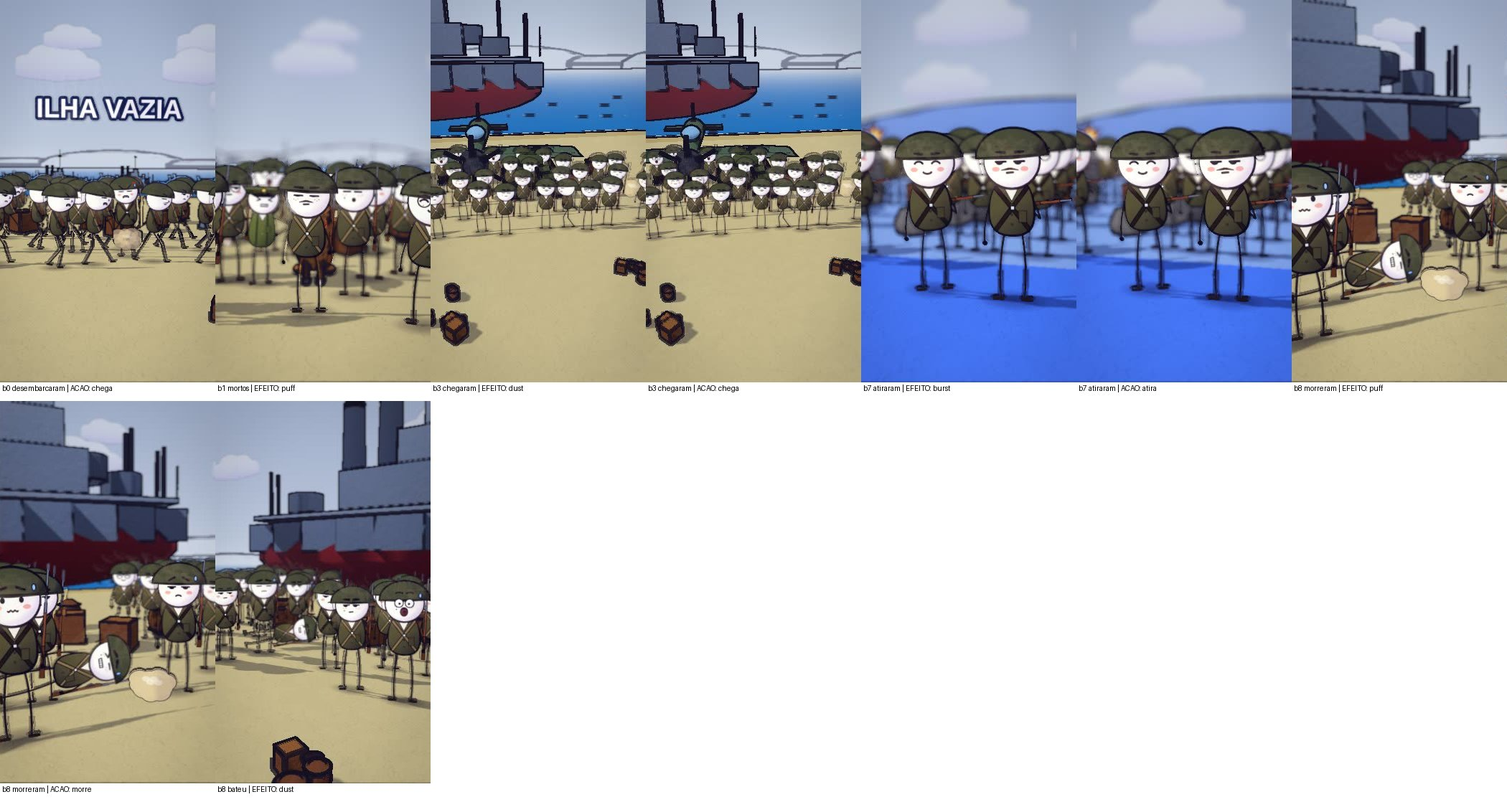
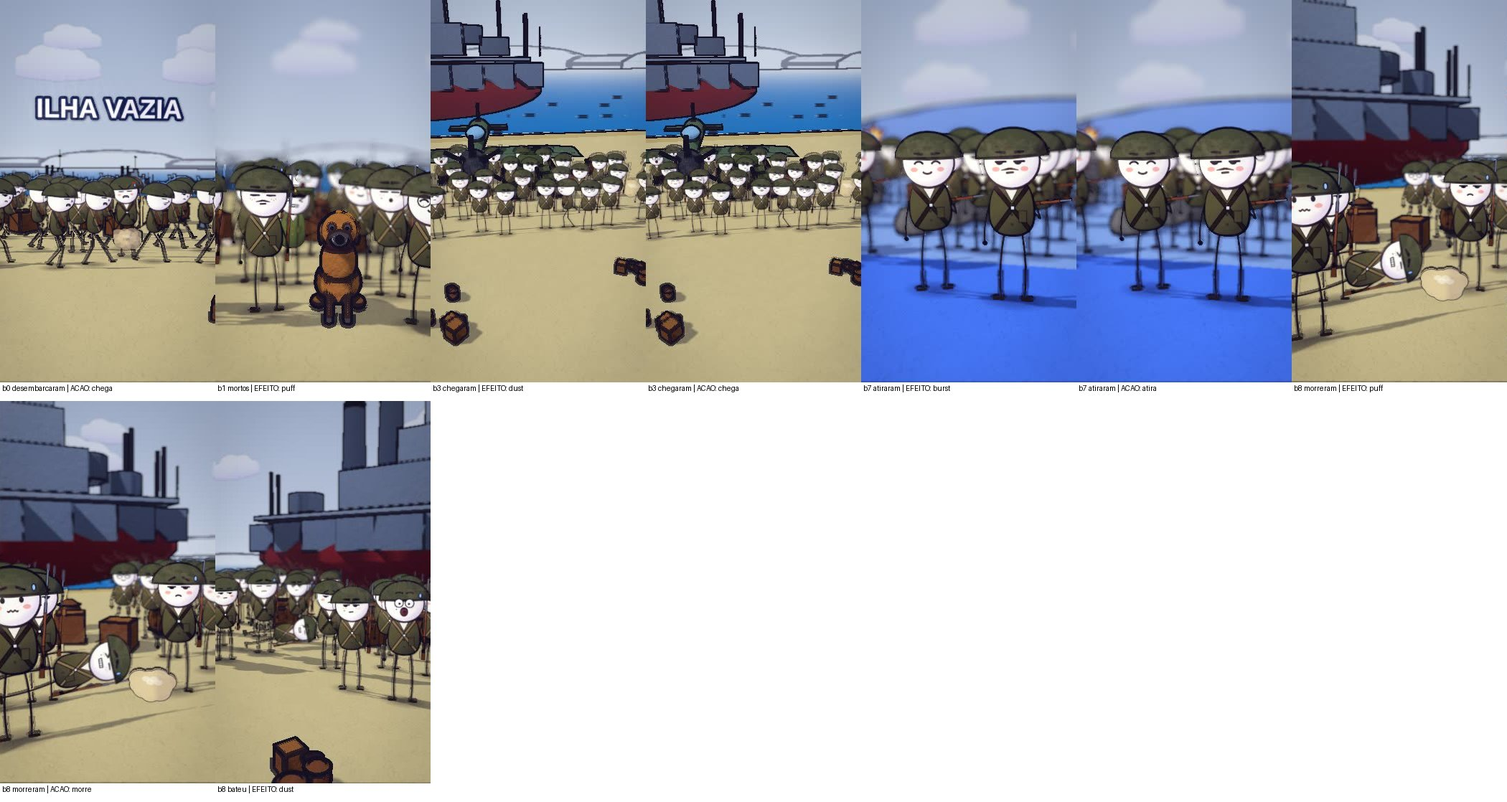
progresso da fila
Claude-Session: https://claude.ai/code/session_01HE8Dy3UcXXZZMLa7uzjNJD

Changed region(s): [[0.1238, 0.1825, 0.3095, 0.4258]]

diff --git a/ferramenta-shorts/web/story.js b/ferramenta-shorts/web/story.js
@@ -34,7 +34,7 @@ const SPEC = {
   kicks: [{ f: WS(63), a: 0.032 }], flashes: [],
   shots: [
     { ...S('b0', A[0], A[1] - 1, X_harbor, "overcast", { h: 2.4, d0: 20, d1: 16, el: 5, fov: 46, cx: 0.0, cz: -1.5, wx: {"fog": 0.7, "wind": 0.3}, hero: { hero: 'none', wide: true }, vary: false, nocut: true, actors: [_MA(pp(X_harbor, "USA", 0, -1.0, -0.4, "stern"), { gests: [[WS(5) - 8, WS(5) + 46, 'point']] }), pp(X_harbor, "CAN", 0, 1.0, 0.2, "stern"), { outfit: "USA", v: 0, at: [X_harbor + -17.05, 0.84], move: [[X_harbor + -5.05, 0.84], A[0], A[1] - 1, 'lin'], pose: 'march', speed: 0.034, expr: "stern", seed: 0, look: -0.25 }, { outfit: "CAN", v: 1, at: [X_harbor + -14.79, 1.32], move: [[X_harbor + -2.79, 1.32], A[0], A[1] - 1, 'lin'], pose: 'march', speed: 0.034, expr: "stern", seed: 1, look: 0.25 }, { outfit: "USA", v: 2, at: [X_harbor + -12.53, 0.96], move: [[X_harbor + -0.53, 0.96], A[0], A[1] - 1, 'lin'], pose: 'march', speed: 0.034, expr: "stern", seed: 2, look: 0.0 }, { outfit: "CAN", v: 3, at: [X_harbor + -11.26, 1.44], move: [[X_harbor + 0.74, 1.44], A[0], A[1] - 1, 'lin'], pose: 'march', speed: 0.034, expr: "stern", seed: 3, look: 0.15 }, { outfit: "USA", v: 0, at: [X_harbor + -9.0, 1.08], move: [[X_harbor + 3.0, 1.08], A[0], A[1] - 1, 'lin'], pose: 'march', speed: 0.034, expr: "stern", seed: 0, look: -0.25 }, { outfit: "CAN", v: 1, at: [X_harbor + -6.74, 1.56], move: [[X_harbor + 5.26, 1.56], A[0], A[1] - 1, 'lin'], pose: 'march', speed: 0.034, expr: "stern", seed: 1, look: 0.25 }, { outfit: "USA", v: 2, at: [X_harbor + -5.47, 1.2], move: [[X_harbor + 6.53, 1.2], A[0], A[1] - 1, 'lin'], pose: 'march', speed: 0.034, expr: "stern", seed: 2, look: 0.0 }, { outfit: "CAN", v: 3, at: [X_harbor + -3.21, 0.84], move: [[X_harbor + 8.79, 0.84], A[0], A[1] - 1, 'lin'], pose: 'march', speed: 0.034, expr: "stern", seed: 3, look: 0.15 }, { outfit: "USA", v: 0, at: [X_harbor + -0.95, 1.32], move: [[X_harbor + 11.05, 1.32], A[0], A[1] - 1, 'lin'], pose: 'march', speed: 0.034, expr: "stern", seed: 0, look: -0.25 }, { outfit: "CAN", v: 1, at: [X_harbor + -15.88, -1.14], move: [[X_harbor + -3.88, -1.14], A[0], A[1] - 1, 'lin'], pose: 'march', speed: 0.034, expr: "stern", seed: 1, look: 0.25 }, { outfit: "USA", v: 2, at: [X_harbor + -13.62, -0.66], move: [[X_harbor + -1.62, -0.66], A[0], A[1] - 1, 'lin'], pose: 'march', speed: 0.034, expr: "stern", seed: 2, look: 0.0 }, { outfit: "CAN", v: 3, at: [X_harbor + -12.35, -1.02], move: [[X_harbor + -0.35, -1.02], A[0], A[1] - 1, 'lin'], pose: 'march', speed: 0.034, expr: "stern", seed: 3, look: 0.15 }, { outfit: "USA", v: 0, at: [X_harbor + -10.09, -0.54], move: [[X_harbor + 1.91, -0.54], A[0], A[1] - 1, 'lin'], pose: 'march', speed: 0.034, expr: "stern", seed: 0, look: -0.25 }, { outfit: "CAN", v: 1, at: [X_harbor + -7.83, -0.9], move: [[X_harbor + 4.17, -0.9], A[0], A[1] - 1, 'lin'], pose: 'march', speed: 0.034, expr: "stern", seed: 1, look: 0.25 }, { outfit: "USA", v: 2, at: [X_harbor + -6.56, -1.26], move: [[X_harbor + 5.44, -1.26], A[0], A[1] - 1, 'lin'], pose: 'march', speed: 0.034, expr: "stern", seed: 2, look: 0.0 }, { outfit: "CAN", v: 3, at: [X_harbor + -4.3, -0.78], move: [[X_harbor + 7.7, -0.78], A[0], A[1] - 1, 'lin'], pose: 'march', speed: 0.034, expr: "stern", seed: 3, look: 0.15 }, { outfit: "USA", v: 0, at: [X_harbor + -2.04, -1.14], move: [[X_harbor + 9.96, -1.14], A[0], A[1] - 1, 'lin'], pose: 'march', speed: 0.034, expr: "stern", seed: 0, look: -0.25 }, { outfit: "CAN", v: 1, at: [X_harbor + -0.77, -0.66], move: [[X_harbor + 11.23, -0.66], A[0], A[1] - 1, 'lin'], pose: 'march', speed: 0.034, expr: "stern", seed: 1, look: 0.25 }, { outfit: "USA", v: 2, at: [X_harbor + -16.51, -3.12], move: [[X_harbor + -4.51, -3.12], A[0], A[1] - 1, 'lin'], pose: 'march', speed: 0.034, expr: "stern", seed: 2, look: 0.0 }, { outfit: "CAN", v: 3, at: [X_harbor + -14.25, -2.64], move: [[X_harbor + -2.25, -2.64], A[0], A[1] - 1, 'lin'], pose: 'march', speed: 0.034, expr: "stern", seed: 3, look: 0.15 }, { outfit: "USA", v: 0, at: [X_harbor + -12.98, -3.0], move: [[X_harbor + -0.98, -3.0], A[0], A[1] - 1, 'lin'], pose: 'march', speed: 0.034, expr: "stern", seed: 0, look: -0.25 }, { outfit: "CAN", v: 1, at: [X_harbor + -10.72, -3.36], move: [[X_harbor + 1.28, -3.36], A[0], A[1] - 1, 'lin'], pose: 'march', speed: 0.034, expr: "stern", seed: 1, look: 0.25 }, { outfit: "USA", v: 2, at: [X_harbor + -9.45, -2.88], move: [[X_harbor + 2.55, -2.88], A[0], A[1] - 1, 'lin'], pose: 'march', speed: 0.034, expr: "stern", seed: 2, look: 0.0 }, { outfit: "CAN", v: 3, at: [X_harbor + -7.19, -3.24], move: [[X_harbor + 4.81, -3.24], A[0], A[1] - 1, 'lin'], pose: 'march', speed: 0.034, expr: "stern", seed: 3, look: 0.15 }, { outfit: "USA", v: 0, at: [X_harbor + -4.93, -2.76], move: [[X_harbor + 7.07, -2.76], A[0], A[1] - 1, 'lin'], pose: 'march', speed: 0.034, expr: "stern", seed: 0, look: -0.25 }, { outfit: "CAN", v: 1, at: [X_harbor + -3.66, -3.12], move: [[X_harbor + 8.34, -3.12], A[0], A[1] - 1, 'lin'], pose: 'march', speed: 0.034, expr: "stern", seed: 1, look: 0.25 }, { outfit: "USA", v: 2, at: [X_harbor + -1.4, -2.64], move: [[X_harbor + 10.6, -2.64], A[0], A[1] - 1, 'lin'], pose: 'march', speed: 0.034, expr: "stern", seed: 2, look: 0.0 }, { outfit: "CAN", v: 3, at: [X_harbor + -15.34, -5.1], move: [[X_harbor + -3.34, -5.1], A[0], A[1] - 1, 'lin'], pose: 'march', speed: 0.034, expr: "stern", seed: 3, look: 0.15 }, { outfit: "USA", v: 0, at: [X_harbor + -14.07, -5.46], move: [[X_harbor + -2.07, -5.46], A[0], A[1] - 1, 'lin'], pose: 'march', speed: 0.034, expr: "stern", seed: 0, look: -0.25 }, { outfit: "CAN", v: 1, at: [X_harbor + -11.81, -4.98], move: [[X_harbor + 0.19, -4.98], A[0], A[1] - 1, 'lin'], pose: 'march', speed: 0.034, expr: "stern", seed: 1, look: 0.25 }, { outfit: "USA", v: 2, at: [X_harbor + -9.55, -5.34], move: [[X_harbor + 2.45, -5.34], A[0], A[1] - 1, 'lin'], pose: 'march', speed: 0.034, expr: "stern", seed: 2, look: 0.0 }, { outfit: "CAN", v: 3, at: [X_harbor + -8.28, -4.86], move: [[X_harbor + 3.72, -4.86], A[0], A[1] - 1, 'lin'], pose: 'march', speed: 0.034, expr: "stern", seed: 3, look: 0.15 }], props: [{ asset: "ship", at: [X_harbor + -5, -27.0], s: 1.3 }, { asset: "ship", at: [X_harbor + 4, -27.0], s: 1.3 }, { asset: 'ship', at: [X_harbor + -34, -9], move: [[X_harbor + -7, -9], A[0], WS(5) + 30, 'lin'], s: 1.3, drop: false }, { asset: 'ship', at: [X_harbor + -46, -12], move: [[X_harbor + -16, -12], A[0], WS(5) + 30, 'lin'], s: 1.3, drop: false }], fx: [txt(X_harbor, WS(2, -2), A[1] - 1, "ILHA VAZIA", '#ffffff', '#1c2a4a', 4.6, { s: 1.5, up: 0.42 }), { k: "dust", a: A[0] + 25, b: A[0] + 51, at: [X_harbor + 0.9, DK + 0.12, 1.0], s: 0.75 }] }), nocut: true },
-    { ...S('b1', A[1], A[2] - 1, X_harbor, "overcast", { h: 2.4, d0: 12.1, d1: 11.5, el: 6, cx: 0.0, cz: -0.6, wx: {"fog": 0.7, "wind": 0.3}, hero: { hero: 'none', wide: true }, vary: false, nocut: true, trans: 'cut', glide: true, glideN: 26, actors: [pp(X_harbor, "OFF", 0, -1.0, -0.4, "pained"), pp(X_harbor, "USA", 0, 1.0, 0.2, "surprised"), pp(X_harbor, "USA", 0, -8.05, 0.84, "neutral", { look: -0.25, seed: 0 }), pp(X_harbor, "USA", 1, -5.79, 1.32, "neutral", { look: 0.25, seed: 1 }), pp(X_harbor, "USA", 2, -3.53, 0.96, "neutral", { look: 0.0, seed: 2 }), pp(X_harbor, "USA", 3, -2.26, 1.44, "neutral", { look: 0.15, seed: 3 }), pp(X_harbor, "USA", 4, 0.0, 1.08, "neutral", { look: -0.25, seed: 0 }), pp(X_harbor, "USA", 5, 2.26, 1.56, "neutral", { look: 0.25, seed: 1 }), pp(X_harbor, "USA", 6, 3.53, 1.2, "neutral", { look: 0.0, seed: 2 }), pp(X_harbor, "USA", 0, 5.79, 0.84, "neutral", { look: 0.15, seed: 3 }), pp(X_harbor, "USA", 1, 8.05, 1.32, "neutral", { look: -0.25, seed: 0 }), pp(X_harbor, "USA", 2, -6.88, -1.14, "neutral", { look: 0.25, seed: 1 }), pp(X_harbor, "USA", 3, -4.62, -0.66, "neutral", { look: 0.0, seed: 2 }), pp(X_harbor, "USA", 4, -3.35, -1.02, "neutral", { look: 0.15, seed: 3 }), pp(X_harbor, "USA", 5, -1.09, -0.54, "neutral", { look: -0.25, seed: 0 }), pp(X_harbor, "USA", 6, 1.17, -0.9, "neutral", { look: 0.25, seed: 1 }), pp(X_harbor, "USA", 0, 2.44, -1.26, "neutral", { look: 0.0, seed: 2 }), pp(X_harbor, "USA", 1, 4.7, -0.78, "neutral", { look: 0.15, seed: 3 }), pp(X_harbor, "USA", 2, 6.96, -1.14, "neutral", { look: -0.25, seed: 0 }), pp(X_harbor, "USA", 3, 8.23, -0.66, "neutral", { look: 0.25, seed: 1 }), pp(X_harbor, "USA", 4, -7.51, -3.12, "neutral", { look: 0.0, seed: 2 }), pp(X_harbor, "USA", 5, -5.25, -2.64, "neutral", { look: 0.15, seed: 3 }), pp(X_harbor, "USA", 6, -3.98, -3.0, "neutral", { look: -0.25, seed: 0 }), pp(X_harbor, "USA", 0, -1.72, -3.36, "neutral", { look: 0.25, seed: 1 }), pp(X_harbor, "USA", 1, -0.45, -2.88, "neutral", { look: 0.0, seed: 2 }), pp(X_harbor, "USA", 2, 1.81, -3.24, "neutral", { look: 0.15, seed: 3 }), pp(X_harbor, "USA", 3, 4.07, -2.76, "neutral", { look: -0.25, seed: 0 }), pp(X_harbor, "USA", 4, 5.34, -3.12, "neutral", { look: 0.25, seed: 1 }), pp(X_harbor, "USA", 5, 7.6, -2.64, "neutral", { look: 0.0, seed: 2 }), pp(X_harbor, "USA", 6, -6.34, -5.1, "neutral", { look: 0.15, seed: 3 }), pp(X_harbor, "USA", 0, -5.07, -5.46, "neutral", { look: -0.25, seed: 0 }), pp(X_harbor, "USA", 1, -2.81, -4.98, "neutral", { look: 0.25, seed: 1 }), pp(X_harbor, "USA", 2, -0.55, -5.34, "neutral", { look: 0.0, seed: 2 }), pp(X_harbor, "USA", 3, 0.72, -4.86, "neutral", { look: 0.15, seed: 3 })], props: [{ asset: "kit/dog_sit", at: [X_harbor + 0.0, -1.0], s: 2.0, fixo: true, drop: false }, { asset: "kit/dog_sit", at: [X_harbor + 3.6, -2.0], s: 1.2, fixo: true, drop: false }, { asset: "ship", at: [X_harbor + -5, -27.0], s: 1.3 }, { asset: "ship", at: [X_harbor + 4, -27.0], s: 1.3 }], fx: [txt(X_harbor, WS(22, -2), A[2] - 1, "OPERAÇÃO ILHA VAZIA", '#ffffff', '#1c2a4a', 4.6, { s: 1.5, up: 0.42 }), { k: "puff", a: WS(15), b: WS(15) + 28, at: [X_harbor + -3.08, DK + 0.12, -2.8], s: 1.3 }] }), nocut: true },
+    { ...S('b1', A[1], A[2] - 1, X_harbor, "overcast", { h: 2.4, d0: 12.1, d1: 11.5, el: 6, cx: 0.0, cz: -0.6, wx: {"fog": 0.7, "wind": 0.3}, hero: { hero: 'none', wide: true }, vary: false, nocut: true, trans: 'cut', glide: true, glideN: 26, actors: [pp(X_harbor, "OFF", 0, -1.0, -0.4, "pained"), pp(X_harbor, "USA", 0, 1.0, 0.2, "surprised"), pp(X_harbor, "USA", 0, -8.05, 0.84, "neutral", { look: -0.25, seed: 0 }), pp(X_harbor, "USA", 1, -5.79, 1.32, "neutral", { look: 0.25, seed: 1 }), pp(X_harbor, "USA", 2, -3.53, 0.96, "neutral", { look: 0.0, seed: 2 }), pp(X_harbor, "USA", 3, -2.26, 1.44, "neutral", { look: 0.15, seed: 3 }), pp(X_harbor, "USA", 4, 0.0, 1.08, "neutral", { look: -0.25, seed: 0 }), pp(X_harbor, "USA", 5, 2.26, 1.56, "neutral", { look: 0.25, seed: 1 }), pp(X_harbor, "USA", 6, 3.53, 1.2, "neutral", { look: 0.0, seed: 2 }), pp(X_harbor, "USA", 0, 5.79, 0.84, "neutral", { look: 0.15, seed: 3 }), pp(X_harbor, "USA", 1, 8.05, 1.32, "neutral", { look: -0.25, seed: 0 }), pp(X_harbor, "USA", 2, -6.88, -1.14, "neutral", { look: 0.25, seed: 1 }), pp(X_harbor, "USA", 3, -4.62, -0.66, "neutral", { look: 0.0, seed: 2 }), pp(X_harbor, "USA", 4, -3.35, -1.02, "neutral", { look: 0.15, seed: 3 }), pp(X_harbor, "USA", 5, -1.09, -0.54, "neutral", { look: -0.25, seed: 0 }), pp(X_harbor, "USA", 6, 1.17, -0.9, "neutral", { look: 0.25, seed: 1 }), pp(X_harbor, "USA", 0, 2.44, -1.26, "neutral", { look: 0.0, seed: 2 }), pp(X_harbor, "USA", 1, 4.7, -0.78, "neutral", { look: 0.15, seed: 3 }), pp(X_harbor, "USA", 2, 6.96, -1.14, "neutral", { look: -0.25, seed: 0 }), pp(X_harbor, "USA", 3, 8.23, -0.66, "neutral", { look: 0.25, seed: 1 }), pp(X_harbor, "USA", 4, -7.51, -3.12, "neutral", { look: 0.0, seed: 2 }), pp(X_harbor, "USA", 5, -5.25, -2.64, "neutral", { look: 0.15, seed: 3 }), pp(X_harbor, "USA", 6, -3.98, -3.0, "neutral", { look: -0.25, seed: 0 }), pp(X_harbor, "USA", 0, -1.72, -3.36, "neutral", { look: 0.25, seed: 1 }), pp(X_harbor, "USA", 1, -0.45, -2.88, "neutral", { look: 0.0, seed: 2 }), pp(X_harbor, "USA", 2, 1.81, -3.24, "neutral", { look: 0.15, seed: 3 }), pp(X_harbor, "USA", 3, 4.07, -2.76, "neutral", { look: -0.25, seed: 0 }), pp(X_harbor, "USA", 4, 5.34, -3.12, "neutral", { look: 0.25, seed: 1 }), pp(X_harbor, "USA", 5, 7.6, -2.64, "neutral", { look: 0.0, seed: 2 }), pp(X_harbor, "USA", 6, -6.34, -5.1, "neutral", { look: 0.15, seed: 3 }), pp(X_harbor, "USA", 0, -5.07, -5.46, "neutral", { look: -0.25, seed: 0 }), pp(X_harbor, "USA", 1, -2.81, -4.98, "neutral", { look: 0.25, seed: 1 }), pp(X_harbor, "USA", 2, -0.55, -5.34, "neutral", { look: 0.0, seed: 2 }), pp(X_harbor, "USA", 3, 0.72, -4.86, "neutral", { look: 0.15, seed: 3 })], props: [{ asset: "kit/dog_sit", at: [X_harbor + 0.6, 1.0], s: 2.0, fixo: true, drop: false }, { asset: "kit/dog_sit", at: [X_harbor + 3.6, -2.0], s: 1.2, fixo: true, drop: false }, { asset: "ship", at: [X_harbor + -5, -27.0], s: 1.3 }, { asset: "ship", at: [X_harbor + 4, -27.0], s: 1.3 }], fx: [txt(X_harbor, WS(22, -2), A[2] - 1, "OPERAÇÃO ILHA VAZIA", '#ffffff', '#1c2a4a', 4.6, { s: 1.5, up: 0.42 }), { k: "puff", a: WS(15), b: WS(15) + 28, at: [X_harbor + -3.08, DK + 0.12, -2.8], s: 1.3 }] }), nocut: true },
     S('b2', A[2], Math.round(A[2] + (A[3] - 1 + 1 - (A[2])) * 0.36) - 1, X_arctic, "overcast", { h: 2.5, d0: 12.882, d1: 11.526, az0: -6, az1: 8, cx: 0.0, cz: 1.2, wx: {"fog": 0.7, "wind": 0.3}, hero: { hero: 'any', frame: 'medium', minH: 0.07, main: 3 }, trans: 'cut', nocut: true, actors: [pp(X_arctic, "USA", 0, -2.1, 1.3, "stern", { pose: 'talk', inter: { k: 'lean', a: Math.round(A[2] + (A[3] - 1 - (A[2])) * 0.12), b: Math.round(A[2] + (A[3] - 1 - (A[2])) * 0.82), dir: 1, n: 2, ph: 0 } }), pp(X_arctic, "CAN", 0, 0.0, 1.0, "stern", { pose: 'talk', inter: { k: 'nod', a: Math.round(A[2] + (A[3] - 1 - (A[2])) * 0.2), b: Math.round(A[2] + (A[3] - 1 - (A[2])) * 0.9), dir: -1, n: 2, ph: 3.14 } }), pp(X_arctic, "USA", 1, 2.1, 1.6, "grin", { pose: 'talk' })], props: [{ asset: "vehicles/airplane", at: [X_arctic + 1.6, -1.6], s: 1.0 }, { asset: "kit/navio_vapor", at: [X_arctic + -1.8, -3.0], s: 2.25, drop: false }], fx: [{ k: 'map', a: WS(18, -2), b: Math.min(A[3] - 1, WS(18, -2) + 54), text: "ALASCA", geo: null }] }), { ...S('b2_d', Math.round(A[2] + (A[3] - 1 + 1 - (A[2])) * 0.36), Math.round(A[2] + (A[3] - 1 + 1 - (A[2])) * 0.6) - 1, X_arctic, "overcast", { h: 2.5, d0: 12.882, d1: 11.526, az0: -6, az1: 8, cx: 0.0, cz: 1.2, wx: {"fog": 0.7, "wind": 0.3}, hero: { hero: 'none', detalhe: true }, trans: 'cut', nocut: true, actors: [pp(X_arctic, "USA", 0, -2.1, 1.3, "stern", { pose: 'stand' }), pp(X_arctic, "CAN", 0, 0.0, 1.0, "stern", { pose: 'stand' }), pp(X_arctic, "USA", 1, 2.1, 1.6, "grin", { pose: 'stand' })], props: [{ asset: "vehicles/airplane", at: [X_arctic + 1.6, -1.6], s: 1.0, drop: false }, { asset: "kit/navio_vapor", at: [X_arctic + -1.8, -3.0], s: 2.25, drop: false }], fx: [{ k: 'map', a: WS(18, -2), b: Math.min(A[3] - 1, WS(18, -2) + 54), text: "ALASCA", geo: null }] }), cam: [{ f: Math.round(A[2] + (A[3] - 1 + 1 - (A[2])) * 0.36), at: [X_arctic + -1.8, DK + 0.75, -3.0], d: 44.45, az: 14, el: 7, fov: 44 }, { f: Math.round(A[2] + (A[3] - 1 + 1 - (A[2])) * 0.6) - 1, at: [X_arctic + -1.8, DK + 0.75, -3.0], d: 39.75, az: 8, el: 6, fov: 44 }], nocut: true, vary: false, glide: true, glideN: 34 }, { ...S('b2_v', Math.round(A[2] + (A[3] - 1 + 1 - (A[2])) * 0.6), A[3] - 1, X_arctic, "overcast", { h: 2.5, d0: 12.882, d1: 11.526, az0: -6, az1: 8, cx: 0.0, cz: 1.2, wx: {"fog": 0.7, "wind": 0.3}, hero: { hero: 'any', frame: 'medium', minH: 0.07, main: 3 }, trans: 'cut', nocut: true, actors: [pp(X_arctic, "USA", 0, -2.1, 1.3, "stern", { pose: 'talk', inter: { k: 'lean', a: Math.round(A[2] + (A[3] - 1 - (A[2])) * 0.12), b: Math.round(A[2] + (A[3] - 1 - (A[2])) * 0.82), dir: 1, n: 2, ph: 0 } }), pp(X_arctic, "CAN", 0, 0.0, 1.0, "stern", { pose: 'talk', inter: { k: 'nod', a: Math.round(A[2] + (A[3] - 1 - (A[2])) * 0.2), b: Math.round(A[2] + (A[3] - 1 - (A[2])) * 0.9), dir: -1, n: 2, ph: 3.14 } }), pp(X_arctic, "USA", 1, 2.1, 1.6, "grin", { pose: 'talk' })], props: [{ asset: "vehicles/airplane", at: [X_arctic + 1.6, -1.6], s: 1.0, drop: false }, { asset: "kit/navio_vapor", at: [X_arctic + -1.8, -3.0], s: 2.25, drop: false }], fx: [{ k: 'map', a: WS(18, -2), b: Math.min(A[3] - 1, WS(18, -2) + 54), text: "ALASCA", geo: null }] }), glide: true, glideN: 34 },
     { ...{ ...S('b3', A[3], A[4] - 1, X_harbor, "overcast", { h: 2.8, d0: 13.0, d1: 11.0, el: 10, fov: 46, cx: 0.0, cz: -4.2, wx: {"fog": 0.7, "wind": 0.3}, hero: { hero: 'none', wide: true }, vary: false, nocut: true, trans: 'cut', actors: [_MA(_MA(pp(X_harbor, "USA", 0, 0.0, -0.4, "stern"), { gests: [[WS(33) - 8, WS(33) + 46, 'point']] }), { at: [X_harbor + 6.0, 0.5], move: [[X_harbor + 0.0, 1.3], Math.max(A[3], WS(33) - 30), WS(33) + 20, 'lin'], walk: 'stroll' }), pp(X_harbor, "USA", 0, -8.05, 0.84, "neutral", { look: -0.25, seed: 0 }), pp(X_harbor, "USA", 1, -5.79, 1.32, "neutral", { look: 0.25, seed: 1 }), pp(X_harbor, "USA", 2, -3.53, 0.96, "neutral", { look: 0.0, seed: 2 }), pp(X_harbor, "USA", 3, -2.26, 1.44, "neutral", { look: 0.15, seed: 3 }), pp(X_harbor, "USA", 4, 0.0, 1.08, "neutral", { look: -0.25, seed: 0 }), pp(X_harbor, "USA", 5, 2.26, 1.56, "neutral", { look: 0.25, seed: 1 }), pp(X_harbor, "USA", 6, 3.53, 1.2, "neutral", { look: 0.0, seed: 2 }), pp(X_harbor, "USA", 0, 5.79, 0.84, "neutral", { look: 0.15, seed: 3 }), pp(X_harbor, "USA", 1, 8.05, 1.32, "neutral", { look: -0.25, seed: 0 }), pp(X_harbor, "USA", 2, -6.88, -1.14, "neutral", { look: 0.25, seed: 1 }), pp(X_harbor, "USA", 3, -4.62, -0.66, "neutral", { look: 0.0, seed: 2 }), pp(X_harbor, "USA", 4, -3.35, -1.02, "neutral", { look: 0.15, seed: 3 }), pp(X_harbor, "USA", 5, -1.09, -0.54, "neutral", { look: -0.25, seed: 0 }), pp(X_harbor, "USA", 6, 1.17, -0.9, "neutral", { look: 0.25, seed: 1 }), pp(X_harbor, "USA", 0, 2.44, -1.26, "neutral", { look: 0.0, seed: 2 }), pp(X_harbor, "USA", 1, 4.7, -0.78, "neutral", { look: 0.15, seed: 3 }), pp(X_harbor, "USA", 2, 6.96, -1.14, "neutral", { look: -0.25, seed: 0 }), pp(X_harbor, "USA", 3, 8.23, -0.66, "neutral", { look: 0.25, seed: 1 }), pp(X_harbor, "USA", 4, -7.51, -3.12, "neutral", { look: 0.0, seed: 2 }), pp(X_harbor, "USA", 5, -5.25, -2.64, "neutral", { look: 0.15, seed: 3 }), pp(X_harbor, "USA", 6, -3.98, -3.0, "neutral", { look: -0.25, seed: 0 }), pp(X_harbor, "USA", 0, -1.72, -3.36, "neutral", { look: 0.25, seed: 1 }), pp(X_harbor, "USA", 1, -0.45, -2.88, "neutral", { look: 0.0, seed: 2 }), pp(X_harbor, "USA", 2, 1.81, -3.24, "neutral", { look: 0.15, seed: 3 }), pp(X_harbor, "USA", 3, 4.07, -2.76, "neutral", { look: -0.25, seed: 0 }), pp(X_harbor, "USA", 4, 5.34, -3.12, "neutral", { look: 0.25, seed: 1 }), pp(X_harbor, "USA", 5, 7.6, -2.64, "neutral", { look: 0.0, seed: 2 }), pp(X_harbor, "USA", 6, -6.34, -5.1, "neutral", { look: 0.15, seed: 3 }), pp(X_harbor, "USA", 0, -5.07, -5.46, "neutral", { look: -0.25, seed: 0 }), pp(X_harbor, "USA", 1, -2.81, -4.98, "neutral", { look: 0.25, seed: 1 }), pp(X_harbor, "USA", 2, -0.55, -5.34, "neutral", { look: 0.0, seed: 2 }), pp(X_harbor, "USA", 3, 0.72, -4.86, "neutral", { look: 0.15, seed: 3 })], props: [{ asset: "kit/aviao_ww2", at: [X_harbor + -4, -9], s: 2.51, drop: false }, { asset: "kit/tanque_ww2", at: [X_harbor + 0.0, -6], s: 1.0, drop: false }, { asset: "kit/navio_encouracado", at: [X_harbor + -15, -36], s: 8.44, drop: false }, { asset: "boat", at: [X_harbor + 30, -22], s: 1.0 }], fx: [{ k: "dust", a: WS(33), b: WS(33) + 28, at: [X_harbor + 5.6, DK + 0.12, -0.58], s: 1.3 }] }), nocut: true }, cam: [{ f: A[3], at: [X_harbor + 0.0, DK + 2.0, 0.5], d: 9, az: 10, el: 5, fov: 46 }, { f: A[4] - 1, at: [X_harbor + 0.0, DK + 1.0, -2.0], d: 30, az: -14, el: 30, fov: 48 }], nocut: true },
     { ...{ ...S('b4', A[4], Math.round(A[4] + (A[5] - 1 + 1 - (A[4])) * 0.3) - 1, X_harbor, "overcast", { h: 2.6, d0: 15.0, d1: 14.0, el: 11, cx: 0.0, cz: -1.5, wx: {"fog": 0.7, "wind": 0.3}, hero: { hero: 'none', wide: true }, vary: false, nocut: true, trans: 'cut', glide: true, glideN: 26, actors: [pp(X_harbor, "USA", 2, 0.0, -0.4, "grin"), pp(X_harbor, "USA", 0, -8.05, 0.84, "neutral", { look: -0.25, seed: 0 }), pp(X_harbor, "USA", 1, -5.79, 1.32, "neutral", { look: 0.25, seed: 1 }), pp(X_harbor, "USA", 2, -3.53, 0.96, "neutral", { look: 0.0, seed: 2 }), pp(X_harbor, "USA", 3, -2.26, 1.44, "neutral", { look: 0.15, seed: 3 }), pp(X_harbor, "USA", 4, 0.0, 1.08, "neutral", { look: -0.25, seed: 0 }), pp(X_harbor, "USA", 5, 2.26, 1.56, "neutral", { look: 0.25, seed: 1 }), pp(X_harbor, "USA", 6, 3.53, 1.2, "neutral", { look: 0.0, seed: 2 }), pp(X_harbor, "USA", 0, 5.79, 0.84, "neutral", { look: 0.15, seed: 3 }), pp(X_harbor, "USA", 1, 8.05, 1.32, "neutral", { look: -0.25, seed: 0 }), pp(X_harbor, "USA", 2, -6.88, -1.14, "neutral", { look: 0.25, seed: 1 }), pp(X_harbor, "USA", 3, -4.62, -0.66, "neutral", { look: 0.0, seed: 2 }), pp(X_harbor, "USA", 4, -3.35, -1.02, "neutral", { look: 0.15, seed: 3 }), pp(X_harbor, "USA", 5, -1.09, -0.54, "neutral", { look: -0.25, seed: 0 }), pp(X_harbor, "USA", 6, 1.17, -0.9, "neutral", { look: 0.25, seed: 1 }), pp(X_harbor, "USA", 0, 2.44, -1.26, "neutral", { look: 0.0, seed: 2 }), pp(X_harbor, "USA", 1, 4.7, -0.78, "neutral", { look: 0.15, seed: 3 }), pp(X_harbor, "USA", 2, 6.96, -1.14, "neutral", { look: -0.25, seed: 0 }), pp(X_harbor, "USA", 3, 8.23, -0.66, "neutral", { look: 0.25, seed: 1 }), pp(X_harbor, "USA", 4, -7.51, -3.12, "neutral", { look: 0.0, seed: 2 }), pp(X_harbor, "USA", 5, -5.25, -2.64, "neutral", { look: 0.15, seed: 3 }), pp(X_harbor, "USA", 6, -3.98, -3.0, "neutral", { look: -0.25, seed: 0 }), pp(X_harbor, "USA", 0, -1.72, -3.36, "neutral", { look: 0.25, seed: 1 }), pp(X_harbor, "USA", 1, -0.45, -2.88, "neutral", { look: 0.0, seed: 2 }), pp(X_harbor, "USA", 2, 1.81, -3.24, "neutral", { look: 0.15, seed: 3 }), pp(X_harbor, "USA", 3, 4.07, -2.76, "neutral", { look: -0.25, seed: 0 }), pp(X_harbor, "USA", 4, 5.34, -3.12, "neutral", { look: 0.25, seed: 1 }), pp(X_harbor, "USA", 5, 7.6, -2.64, "neutral", { look: 0.0, seed: 2 }), pp(X_harbor, "USA", 6, -6.34, -5.1, "neutral", { look: 0.15, seed: 3 }), pp(X_harbor, "USA", 0, -5.07, -5.46, "neutral", { look: -0.25, seed: 0 }), pp(X_harbor, "USA", 1, -2.81, -4.98, "neutral", { look: 0.25, seed: 1 }), pp(X_harbor, "USA", 2, -0.55, -5.34, "neutral", { look: 0.0, seed: 2 }), pp(X_harbor, "USA", 3, 0.72, -4.86, "neutral", { look: 0.15, seed: 3 }), pp(X_harbor, "USA", 4, 2.98, -5.22, "neutral", { look: -0.25, seed: 0 }), pp(X_harbor, "USA", 5, 4.25, -4.74, "neutral", { look: 0.25, seed: 1 }), pp(X_harbor, "USA", 6, 6.51, -5.1, "neutral", { look: 0.0, seed: 2 }), pp(X_harbor, "USA", 0, 8.77, -5.46, "neutral", { look: 0.15, seed: 3 }), pp(X_harbor, "USA", 1, -7.96, -7.08, "neutral", { look: -0.25, seed: 0 }), pp(X_harbor, "USA", 2, -5.7, -7.44, "neutral", { look: 0.25, seed: 1 }), pp(X_harbor, "USA", 3, -3.44, -6.96, "neutral", { look: 0.0, seed: 2 }), pp(X_harbor, "USA", 4, -2.17, -7.32, "neutral", { look: 0.15, seed: 3 }), pp(X_harbor, "USA", 5, 0.09, -6.84, "neutral", { look: -0.25, seed: 0 }), pp(X_harbor, "USA", 6, 2.35, -7.2, "neutral", { look: 0.25, seed: 1 }), pp(X_harbor, "USA", 0, 3.62, -7.56, "neutral", { look: 0.0, seed: 2 }), pp(X_harbor, "USA", 1, 5.88, -7.08, "neutral", { look: 0.15, seed: 3 }), pp(X_harbor, "USA", 2, 7.15, -7.44, "neutral", { look: -0.25, seed: 0 }), pp(X_harbor, "USA", 3, -6.79, -9.06, "neutral", { look: 0.25, seed: 1 }), pp(X_harbor, "USA", 4, -4.53, -9.42, "neutral", { look: 0.0, seed: 2 }), pp(X_harbor, "USA", 5, -3.26, -8.94, "neutral", { look: 0.15, seed: 3 })], props: [{ asset: "kit/aviao_ww2", at: [X_harbor + -3.0, -8.0], s: 2.51, drop: false }, { asset: "kit/canhao_moderno", at: [X_harbor + 2.4, 0.6], s: 1.77, drop: false }, { asset: "kit/navio_encouracado", at: [X_harbor + -15, -36], s: 8.44, drop: false }], fx: [txt(X_harbor, WS(42, -2), A[5] - 1, "BOMBARDEIO", '#d8282f', '#fff6e0', 4.8, { s: 1.5, up: 0.42 }), { k: 'burst', a: A[4] + 38, b: A[4] + 50, at: [X_harbor + 2.4, DK + -2.65, 1.4], s: 2.5 }, { k: 'burst', a: A[4] + 60, b: A[4] + 72, at: [X_harbor + 2.4, DK + -2.65, 1.4], s: 2.5 }, { k: 'burst', a: A[4] + 82, b: A[4] + 94, at: [X_harbor + 2.4, DK + -2.65, 1.4], s: 2.5 }, { k: 'flash', a: A[4] + 8, b: A[4] + 16, at: [X_harbor + -2.78, DK - 1.05 + 0, 1.36], s: 2.5 }, { k: 'flash', a: A[4] + 16, b: A[4] + 24, at: [X_harbor + 6.54, DK - 1.05 + 0, 1.24], s: 2.5 }, { k: 'flash', a: A[4] + 20, b: A[4] + 28, at: [X_harbor + -0.34, DK - 1.05 + 0, -0.14], s: 2.5 }, { k: 'flash', a: A[4] + 24, b: A[4] + 32, at: [X_harbor + 8.98, DK - 1.05 + 0, -0.26], s: 2.5 }, { k: 'flash', a: A[4] + 28, b: A[4] + 36, at: [X_harbor + 0.3, DK - 1.05 + 0, -2.48], s: 2.5 }, { k: 'flash', a: A[4] + 36, b: A[4] + 44, at: [X_harbor + -5.59, DK - 1.05 + 0, -4.7], s: 2.5 }, { k: 'flash', a: A[4] + 40, b: A[4] + 48, at: [X_harbor + 3.73, DK - 1.05 + 0, -4.82], s: 2.5 }, { k: 'flash', a: A[4] + 44, b: A[4] + 52, at: [X_harbor + -4.95, DK - 1.05 + 0, -7.04], s: 2.5 }, { k: 'flash', a: A[4] + 48, b: A[4] + 56, at: [X_harbor + 4.37, DK - 1.05 + 0, -7.16], s: 2.5 }] }), nocut: true }, cam: [{ f: A[4], at: [X_harbor + 0.0, DK + 2.2, 0.5], d: 8.5, az: -26, el: 2, fov: 44 }, { f: Math.round(A[4] + (A[5] - 1 + 1 - (A[4])) * 0.3) - 1, at: [X_harbor + 1.0, DK + 2.2, 0.5], d: 7.4, az: -14, el: 3, fov: 44 }], nocut: true, vary: false }, { ...{ ...S('b4_1', Math.round(A[4] + (A[5] - 1 + 1 - (A[4])) * 0.3), Math.round(A[4] + (A[5] - 1 + 1 - (A[4])) * 0.55) - 1, X_harbor, "overcast", { h: 2.6, d0: 15.0, d1: 14.0, el: 11, cx: 0.0, cz: -1.5, wx: {"fog": 0.7, "wind": 0.3}, hero: { hero: 'none', wide: true }, vary: false, nocut: true, trans: 'cut', glide: true, glideN: 26, actors: [pp(X_harbor, "USA", 2, 0.0, -0.4, "grin"), pp(X_harbor, "USA", 0, -8.05, 0.84, "neutral", { look: -0.25, seed: 0 }), pp(X_harbor, "USA", 1, -5.79, 1.32, "neutral", { look: 0.25, seed: 1 }), pp(X_harbor, "USA", 2, -3.53, 0.96, "neutral", { look: 0.0, seed: 2 }), pp(X_harbor, "USA", 3, -2.26, 1.44, "neutral", { look: 0.15, seed: 3 }), pp(X_harbor, "USA", 4, 0.0, 1.08, "neutral", { look: -0.25, seed: 0 }), pp(X_harbor, "USA", 5, 2.26, 1.56, "neutral", { look: 0.25, seed: 1 }), pp(X_harbor, "USA", 6, 3.53, 1.2, "neutral", { look: 0.0, seed: 2 }), pp(X_harbor, "USA", 0, 5.79, 0.84, "neutral", { look: 0.15, seed: 3 }), pp(X_harbor, "USA", 1, 8.05, 1.32, "neutral", { look: -0.25, seed: 0 }), pp(X_harbor, "USA", 2, -6.88, -1.14, "neutral", { look: 0.25, seed: 1 }), pp(X_harbor, "USA", 3, -4.62, -0.66, "neutral", { look: 0.0, seed: 2 }), pp(X_harbor, "USA", 4, -3.35, -1.02, "neutral", { look: 0.15, seed: 3 }), pp(X_harbor, "USA", 5, -1.09, -0.54, "neutral", { look: -0.25, seed: 0 }), pp(X_harbor, "USA", 6, 1.17, -0.9, "neutral", { look: 0.25, seed: 1 }), pp(X_harbor, "USA", 0, 2.44, -1.26, "neutral", { look: 0.0, seed: 2 }), pp(X_harbor, "USA", 1, 4.7, -0.78, "neutral", { look: 0.15, seed: 3 }), pp(X_harbor, "USA", 2, 6.96, -1.14, "neutral", { look: -0.25, seed: 0 }), pp(X_harbor, "USA", 3, 8.23, -0.66, "neutral", { look: 0.25, seed: 1 }), pp(X_harbor, "USA", 4, -7.51, -3.12, "neutral", { look: 0.0, seed: 2 }), pp(X_harbor, "USA", 5, -5.25, -2.64, "neutral", { look: 0.15, seed: 3 }), pp(X_harbor, "USA", 6, -3.98, -3.0, "neutral", { look: -0.25, seed: 0 }), pp(X_harbor, "USA", 0, -1.72, -3.36, "neutral", { look: 0.25, seed: 1 }), pp(X_harbor, "USA", 1, -0.45, -2.88, "neutral", { look: 0.0, seed: 2 }), pp(X_harbor, "USA", 2, 1.81, -3.24, "neutral", { look: 0.15, seed: 3 }), pp(X_harbor, "USA", 3, 4.07, -2.76, "neutral", { look: -0.25, seed: 0 }), pp(X_harbor, "USA", 4, 5.34, -3.12, "neutral", { look: 0.25, seed: 1 }), pp(X_harbor, "USA", 5, 7.6, -2.64, "neutral", { look: 0.0, seed: 2 }), pp(X_harbor, "USA", 6, -6.34, -5.1, "neutral", { look: 0.15, seed: 3 }), pp(X_harbor, "USA", 0, -5.07, -5.46, "neutral", { look: -0.25, seed: 0 }), pp(X_harbor, "USA", 1, -2.81, -4.98, "neutral", { look: 0.25, seed: 1 }), pp(X_harbor, "USA", 2, -0.55, -5.34, "neutral", { look: 0.0, seed: 2 }), pp(X_harbor, "USA", 3, 0.72, -4.86, "neutral", { look: 0.15, seed: 3 }), pp(X_harbor, "USA", 4, 2.98, -5.22, "neutral", { look: -0.25, seed: 0 }), pp(X_harbor, "USA", 5, 4.25, -4.74, "neutral", { look: 0.25, seed: 1 }), pp(X_harbor, "USA", 6, 6.51, -5.1, "neutral", { look: 0.0, seed: 2 }), pp(X_harbor, "USA", 0, 8.77, -5.46, "neutral", { look: 0.15, seed: 3 }), pp(X_harbor, "USA", 1, -7.96, -7.08, "neutral", { look: -0.25, seed: 0 }), pp(X_harbor, "USA", 2, -5.7, -7.44, "neutral", { look: 0.25, seed: 1 }), pp(X_harbor, "USA", 3, -3.44, -6.96, "neutral", { look: 0.0, seed: 2 }), pp(X_harbor, "USA", 4, -2.17, -7.32, "neutral", { look: 0.15, seed: 3 }), pp(X_harbor, "USA", 5, 0.09, -6.84, "neutral", { look: -0.25, seed: 0 }), pp(X_harbor, "USA", 6, 2.35, -7.2, "neutral", { look: 0.25, seed: 1 }), pp(X_harbor, "USA", 0, 3.62, -7.56, "neutral", { look: 0.0, seed: 2 }), pp(X_harbor, "USA", 1, 5.88, -7.08, "neutral", { look: 0.15, seed: 3 }), pp(X_harbor, "USA", 2, 7.15, -7.44, "neutral", { look: -0.25, seed: 0 }), pp(X_harbor, "USA", 3, -6.79, -9.06, "neutral", { look: 0.25, seed: 1 }), pp(X_harbor, "USA", 4, -4.53, -9.42, "neutral", { look: 0.0, seed: 2 }), pp(X_harbor, "USA", 5, -3.26, -8.94, "neutral", { look: 0.15, seed: 3 })], props: [{ asset: "kit/aviao_ww2", at: [X_harbor + -3.0, -8.0], s: 2.51, drop: false }, { asset: "kit/canhao_moderno", at: [X_harbor + 2.4, 0.6], s: 1.77, drop: false }, { asset: "kit/navio_encouracado", at: [X_harbor + -15, -36], s: 8.44, drop: false }], fx: [txt(X_harbor, WS(42, -2), A[5] - 1, "BOMBARDEIO", '#d8282f', '#fff6e0', 4.8, { s: 1.5, up: 0.42 }), { k: 'burst', a: A[4] + 38, b: A[4] + 50, at: [X_harbor + 2.4, DK + -2.65, 1.4], s: 2.5 }, { k: 'burst', a: A[4] + 60, b: A[4] + 72, at: [X_harbor + 2.4, DK + -2.65, 1.4], s: 2.5 }, { k: 'burst', a: A[4] + 82, b: A[4] + 94, at: [X_harbor + 2.4, DK + -2.65, 1.4], s: 2.5 }, { k: 'flash', a: A[4] + 8, b: A[4] + 16, at: [X_harbor + -2.78, DK - 1.05 + 0, 1.36], s: 2.5 }, { k: 'flash', a: A[4] + 16, b: A[4] + 24, at: [X_harbor + 6.54, DK - 1.05 + 0, 1.24], s: 2.5 }, { k: 'flash', a: A[4] + 20, b: A[4] + 28, at: [X_harbor + -0.34, DK - 1.05 + 0, -0.14], s: 2.5 }, { k: 'flash', a: A[4] + 24, b: A[4] + 32, at: [X_harbor + 8.98, DK - 1.05 + 0, -0.26], s: 2.5 }, { k: 'flash', a: A[4] + 28, b: A[4] + 36, at: [X_harbor + 0.3, DK - 1.05 + 0, -2.48], s: 2.5 }, { k: 'flash', a: A[4] + 36, b: A[4] + 44, at: [X_harbor + -5.59, DK - 1.05 + 0, -4.7], s: 2.5 }, { k: 'flash', a: A[4] + 40, b: A[4] + 48, at: [X_harbor + 3.73, DK - 1.05 + 0, -4.82], s: 2.5 }, { k: 'flash', a: A[4] + 44, b: A[4] + 52, at: [X_harbor + -4.95, DK - 1.05 + 0, -7.04], s: 2.5 }, { k: 'flash', a: A[4] + 48, b: A[4] + 56, at: [X_harbor + 4.37, DK - 1.05 + 0, -7.16], s: 2.5 }] }), nocut: true }, cam: [{ f: Math.round(A[4] + (A[5] - 1 + 1 - (A[4])) * 0.3), at: [X_harbor + -6.0, DK + 1.8, 0.0], d: 11, az: 30, el: 5, fov: 46 }, { f: Math.round(A[4] + (A[5] - 1 + 1 - (A[4])) * 0.55) - 1, at: [X_harbor + 4.0, DK + 1.8, 0.0], d: 11, az: 18, el: 5, fov: 46, ease: "lin" }], nocut: true, vary: false, glide: true }, { ...{ ...S('b4_2', Math.round(A[4] + (A[5] - 1 + 1 - (A[4])) * 0.55), A[5] - 1, X_harbor, "overcast", { h: 2.6, d0: 15.0, d1: 14.0, el: 11, cx: 0.0, cz: -1.5, wx: {"fog": 0.7, "wind": 0.3}, hero: { hero: 'none', wide: true }, vary: false, nocut: true, trans: 'cut', glide: true, glideN: 26, actors: [pp(X_harbor, "USA", 2, 0.0, -0.4, "grin"), pp(X_harbor, "USA", 0, -8.05, 0.84, "neutral", { look: -0.25, seed: 0 }), pp(X_harbor, "USA", 1, -5.79, 1.32, "neutral", { look: 0.25, seed: 1 }), pp(X_harbor, "USA", 2, -3.53, 0.96, "neutral", { look: 0.0, seed: 2 }), pp(X_harbor, "USA", 3, -2.26, 1.44, "neutral", { look: 0.15, seed: 3 }), pp(X_harbor, "USA", 4, 0.0, 1.08, "neutral", { look: -0.25, seed: 0 }), pp(X_harbor, "USA", 5, 2.26, 1.56, "neutral", { look: 0.25, seed: 1 }), pp(X_harbor, "USA", 6, 3.53, 1.2, "neutral", { look: 0.0, seed: 2 }), pp(X_harbor, "USA", 0, 5.79, 0.84, "neutral", { look: 0.15, seed: 3 }), pp(X_harbor, "USA", 1, 8.05, 1.32, "neutral", { look: -0.25, seed: 0 }), pp(X_harbor, "USA", 2, -6.88, -1.14, "neutral", { look: 0.25, seed: 1 }), pp(X_harbor, "USA", 3, -4.62, -0.66, "neutral", { look: 0.0, seed: 2 }), pp(X_harbor, "USA", 4, -3.35, -1.02, "neutral", { look: 0.15, seed: 3 }), pp(X_harbor, "USA", 5, -1.09, -0.54, "neutral", { look: -0.25, seed: 0 }), pp(X_harbor, "USA", 6, 1.17, -0.9, "neutral", { look: 0.25, seed: 1 }), pp(X_harbor, "USA", 0, 2.44, -1.26, "neutral", { look: 0.0, seed: 2 }), pp(X_harbor, "USA", 1, 4.7, -0.78, "neutral", { look: 0.15, seed: 3 }), pp(X_harbor, "USA", 2, 6.96, -1.14, "neutral", { look: -0.25, seed: 0 }), pp(X_harbor, "USA", 3, 8.23, -0.66, "neutral", { look: 0.25, seed: 1 }), pp(X_harbor, "USA", 4, -7.51, -3.12, "neutral", { look: 0.0, seed: 2 }), pp(X_harbor, "USA", 5, -5.25, -2.64, "neutral", { look: 0.15, seed: 3 }), pp(X_harbor, "USA", 6, -3.98, -3.0, "neutral", { look: -0.25, seed: 0 }), pp(X_harbor, "USA", 0, -1.72, -3.36, "neutral", { look: 0.25, seed: 1 }), pp(X_harbor, "USA", 1, -0.45, -2.88, "neutral", { look: 0.0, seed: 2 }), pp(X_harbor, "USA", 2, 1.81, -3.24, "neutral", { look: 0.15, seed: 3 }), pp(X_harbor, "USA", 3, 4.07, -2.76, "neutral", { look: -0.25, seed: 0 }), pp(X_harbor, "USA", 4, 5.34, -3.12, "neutral", { look: 0.25, seed: 1 }), pp(X_harbor, "USA", 5, 7.6, -2.64, "neutral", { look: 0.0, seed: 2 }), pp(X_harbor, "USA", 6, -6.34, -5.1, "neutral", { look: 0.15, seed: 3 }), pp(X_harbor, "USA", 0, -5.07, -5.46, "neutral", { look: -0.25, seed: 0 }), pp(X_harbor, "USA", 1, -2.81, -4.98, "neutral", { look: 0.25, seed: 1 }), pp(X_harbor, "USA", 2, -0.55, -5.34, "neutral", { look: 0.0, seed: 2 }), pp(X_harbor, "USA", 3, 0.72, -4.86, "neutral", { look: 0.15, seed: 3 }), pp(X_harbor, "USA", 4, 2.98, -5.22, "neutral", { look: -0.25, seed: 0 }), pp(X_harbor, "USA", 5, 4.25, -4.74, "neutral", { look: 0.25, seed: 1 }), pp(X_harbor, "USA", 6, 6.51, -5.1, "neutral", { look: 0.0, seed: 2 }), pp(X_harbor, "USA", 0, 8.77, -5.46, "neutral", { look: 0.15, seed: 3 }), pp(X_harbor, "USA", 1, -7.96, -7.08, "neutral", { look: -0.25, seed: 0 }), pp(X_harbor, "USA", 2, -5.7, -7.44, "neutral", { look: 0.25, seed: 1 }), pp(X_harbor, "USA", 3, -3.44, -6.96, "neutral", { look: 0.0, seed: 2 }), pp(X_harbor, "USA", 4, -2.17, -7.32, "neutral", { look: 0.15, seed: 3 }), pp(X_harbor, "USA", 5, 0.09, -6.84, "neutral", { look: -0.25, seed: 0 }), pp(X_harbor, "USA", 6, 2.35, -7.2, "neutral", { look: 0.25, seed: 1 }), pp(X_harbor, "USA", 0, 3.62, -7.56, "neutral", { look: 0.0, seed: 2 }), pp(X_harbor, "USA", 1, 5.88, -7.08, "neutral", { look: 0.15, seed: 3 }), pp(X_harbor, "USA", 2, 7.15, -7.44, "neutral", { look: -0.25, seed: 0 }), pp(X_harbor, "USA", 3, -6.79, -9.06, "neutral", { look: 0.25, seed: 1 }), pp(X_harbor, "USA", 4, -4.53, -9.42, "neutral", { look: 0.0, seed: 2 }), pp(X_harbor, "USA", 5, -3.26, -8.94, "neutral", { look: 0.15, seed: 3 })], props: [{ asset: "kit/aviao_ww2", at: [X_harbor + -3.0, -8.0], s: 2.51, drop: false }, { asset: "kit/canhao_moderno", at: [X_harbor + 2.4, 0.6], s: 1.77, drop: false }, { asset: "kit/navio_encouracado", at: [X_harbor + -15, -36], s: 8.44, drop: false }], fx: [txt(X_harbor, WS(42, -2), A[5] - 1, "BOMBARDEIO", '#d8282f', '#fff6e0', 4.8, { s: 1.5, up: 0.42 }), { k: 'burst', a: A[4] + 38, b: A[4] + 50, at: [X_harbor + 2.4, DK + -2.65, 1.4], s: 2.5 }, { k: 'burst', a: A[4] + 60, b: A[4] + 72, at: [X_harbor + 2.4, DK + -2.65, 1.4], s: 2.5 }, { k: 'burst', a: A[4] + 82, b: A[4] + 94, at: [X_harbor + 2.4, DK + -2.65, 1.4], s: 2.5 }, { k: 'flash', a: A[4] + 8, b: A[4] + 16, at: [X_harbor + -2.78, DK - 1.05 + 0, 1.36], s: 2.5 }, { k: 'flash', a: A[4] + 16, b: A[4] + 24, at: [X_harbor + 6.54, DK - 1.05 + 0, 1.24], s: 2.5 }, { k: 'flash', a: A[4] + 20, b: A[4] + 28, at: [X_harbor + -0.34, DK - 1.05 + 0, -0.14], s: 2.5 }, { k: 'flash', a: A[4] + 24, b: A[4] + 32, at: [X_harbor + 8.98, DK - 1.05 + 0, -0.26], s: 2.5 }, { k: 'flash', a: A[4] + 28, b: A[4] + 36, at: [X_harbor + 0.3, DK - 1.05 + 0, -2.48], s: 2.5 }, { k: 'flash', a: A[4] + 36, b: A[4] + 44, at: [X_harbor + -5.59, DK - 1.05 + 0, -4.7], s: 2.5 }, { k: 'flash', a: A[4] + 40, b: A[4] + 48, at: [X_harbor + 3.73, DK - 1.05 + 0, -4.82], s: 2.5 }, { k: 'flash', a: A[4] + 44, b: A[4] + 52, at: [X_harbor + -4.95, DK - 1.05 + 0, -7.04], s: 2.5 }, { k: 'flash', a: A[4] + 48, b: A[4] + 56, at: [X_harbor + 4.37, DK - 1.05 + 0, -7.16], s: 2.5 }] }), nocut: true }, cam: [{ f: Math.round(A[4] + (A[5] - 1 + 1 - (A[4])) * 0.55), at: [X_harbor + 0.0, DK + 1.4, 0.0], d: 15, az: 8, el: 12, fov: 48 }, { f: A[5] - 1, at: [X_harbor + 0.0, DK + 1.0, -3.0], d: 34, az: -16, el: 30, fov: 48 }], nocut: true, vary: false, glide: true },

diff --git a/ferramenta-shorts/stories/kiska1943/cronograma.md b/ferramenta-shorts/stories/kiska1943/cronograma.md
@@ -29,13 +29,13 @@ N | Etapa | O que confere | Estado | Proximo passo
 5 | Voz | narracao neural gerada e tempos por palavra | FEITO | 
 6 | Estilo e enquadramento | autoajuste de luz/cor e ajuste de camera de cada tomada | FEITO | 
 7 | Gates | camera OK, todas as tomadas OK, estilo OK | FEITO | 
-8 | Storyboard e grade de acoes | video inteiro em quadros + 1 quadro no instante de cada acao | PENDENTE | 
-9 | Revisao escrita e aprovacao | uma linha por frase conferindo com a folha 3 e com o quadro da pesquisa | BLOQUEADO (etapa anterior pendente) | ./aprovar_storyboard.sh kiska1943
+8 | Storyboard e grade de acoes | video inteiro em quadros + 1 quadro no instante de cada acao | FEITO | 
+9 | Revisao escrita e aprovacao | uma linha por frase conferindo com a folha 3 e com o quadro da pesquisa | PENDENTE | ./aprovar_storyboard.sh kiska1943
 10 | Render | todos os quadros renderizados nesta versao das folhas | BLOQUEADO (etapa anterior pendente) | 
 11 | Montagem e som | trechos + voz + musica + efeitos; volume normalizado | BLOQUEADO (etapa anterior pendente) | 
 12 | Conferencia | conferir.sh sem falha e folha de contato olhada | BLOQUEADO (etapa anterior pendente) | ./conferir.sh kiska1943
 13 | Auditoria das acoes | 1 quadro do mp4 em cada palavra de acao | REFAZER (a etapa anterior mudou) | bash auditar_acoes.sh local kiska1943 <mp4>
 14 | Entrega | mp4 original 1080x1920 enviado; commit e push | BLOQUEADO (etapa anterior pendente) | 
 
-**Etapa atual:** 8. Storyboard e grade de acoes
+**Etapa atual:** 9. Revisao escrita e aprovacao
 
